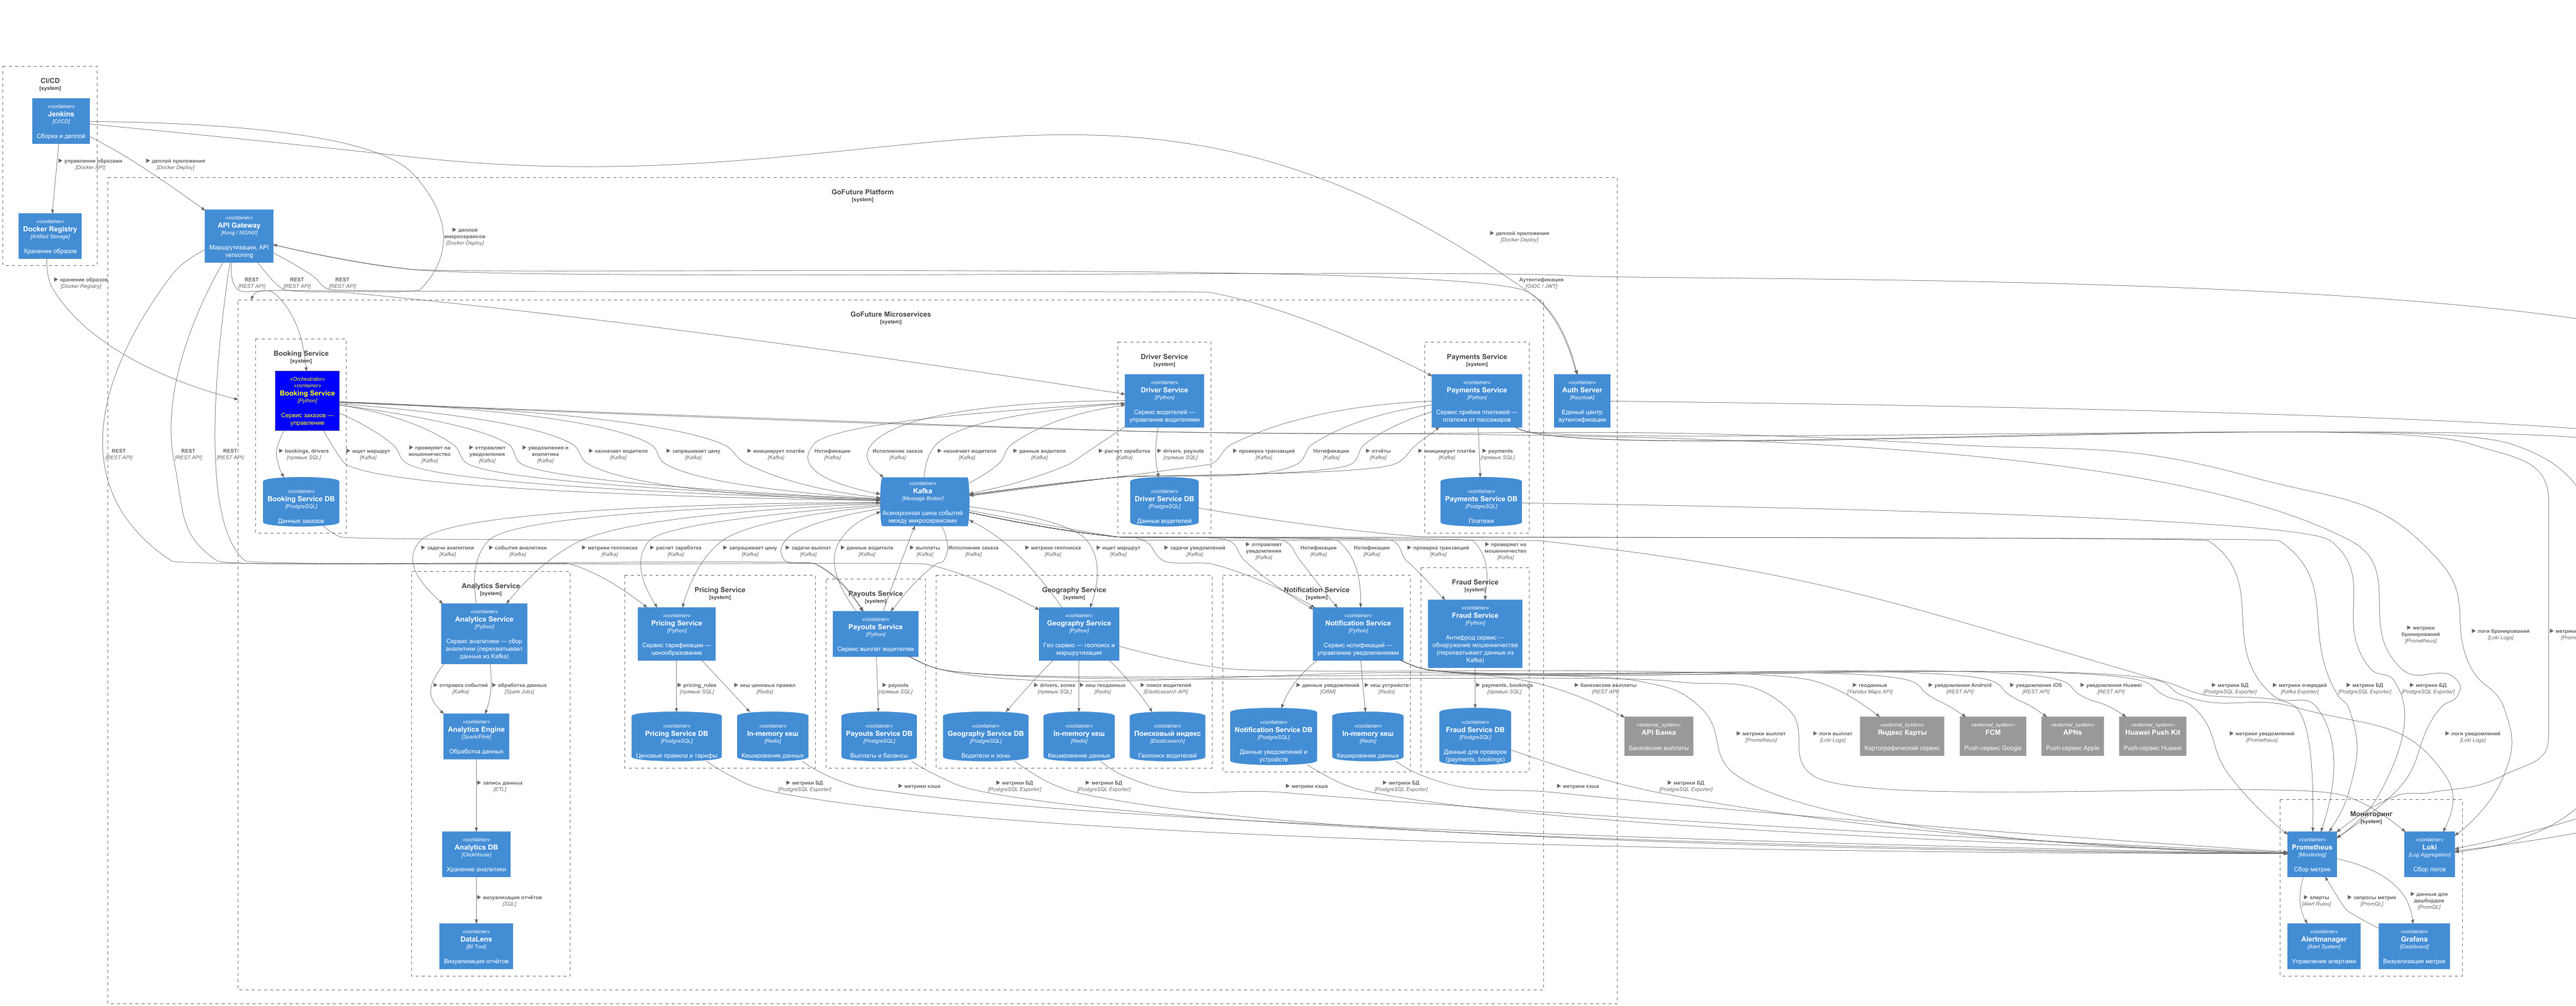
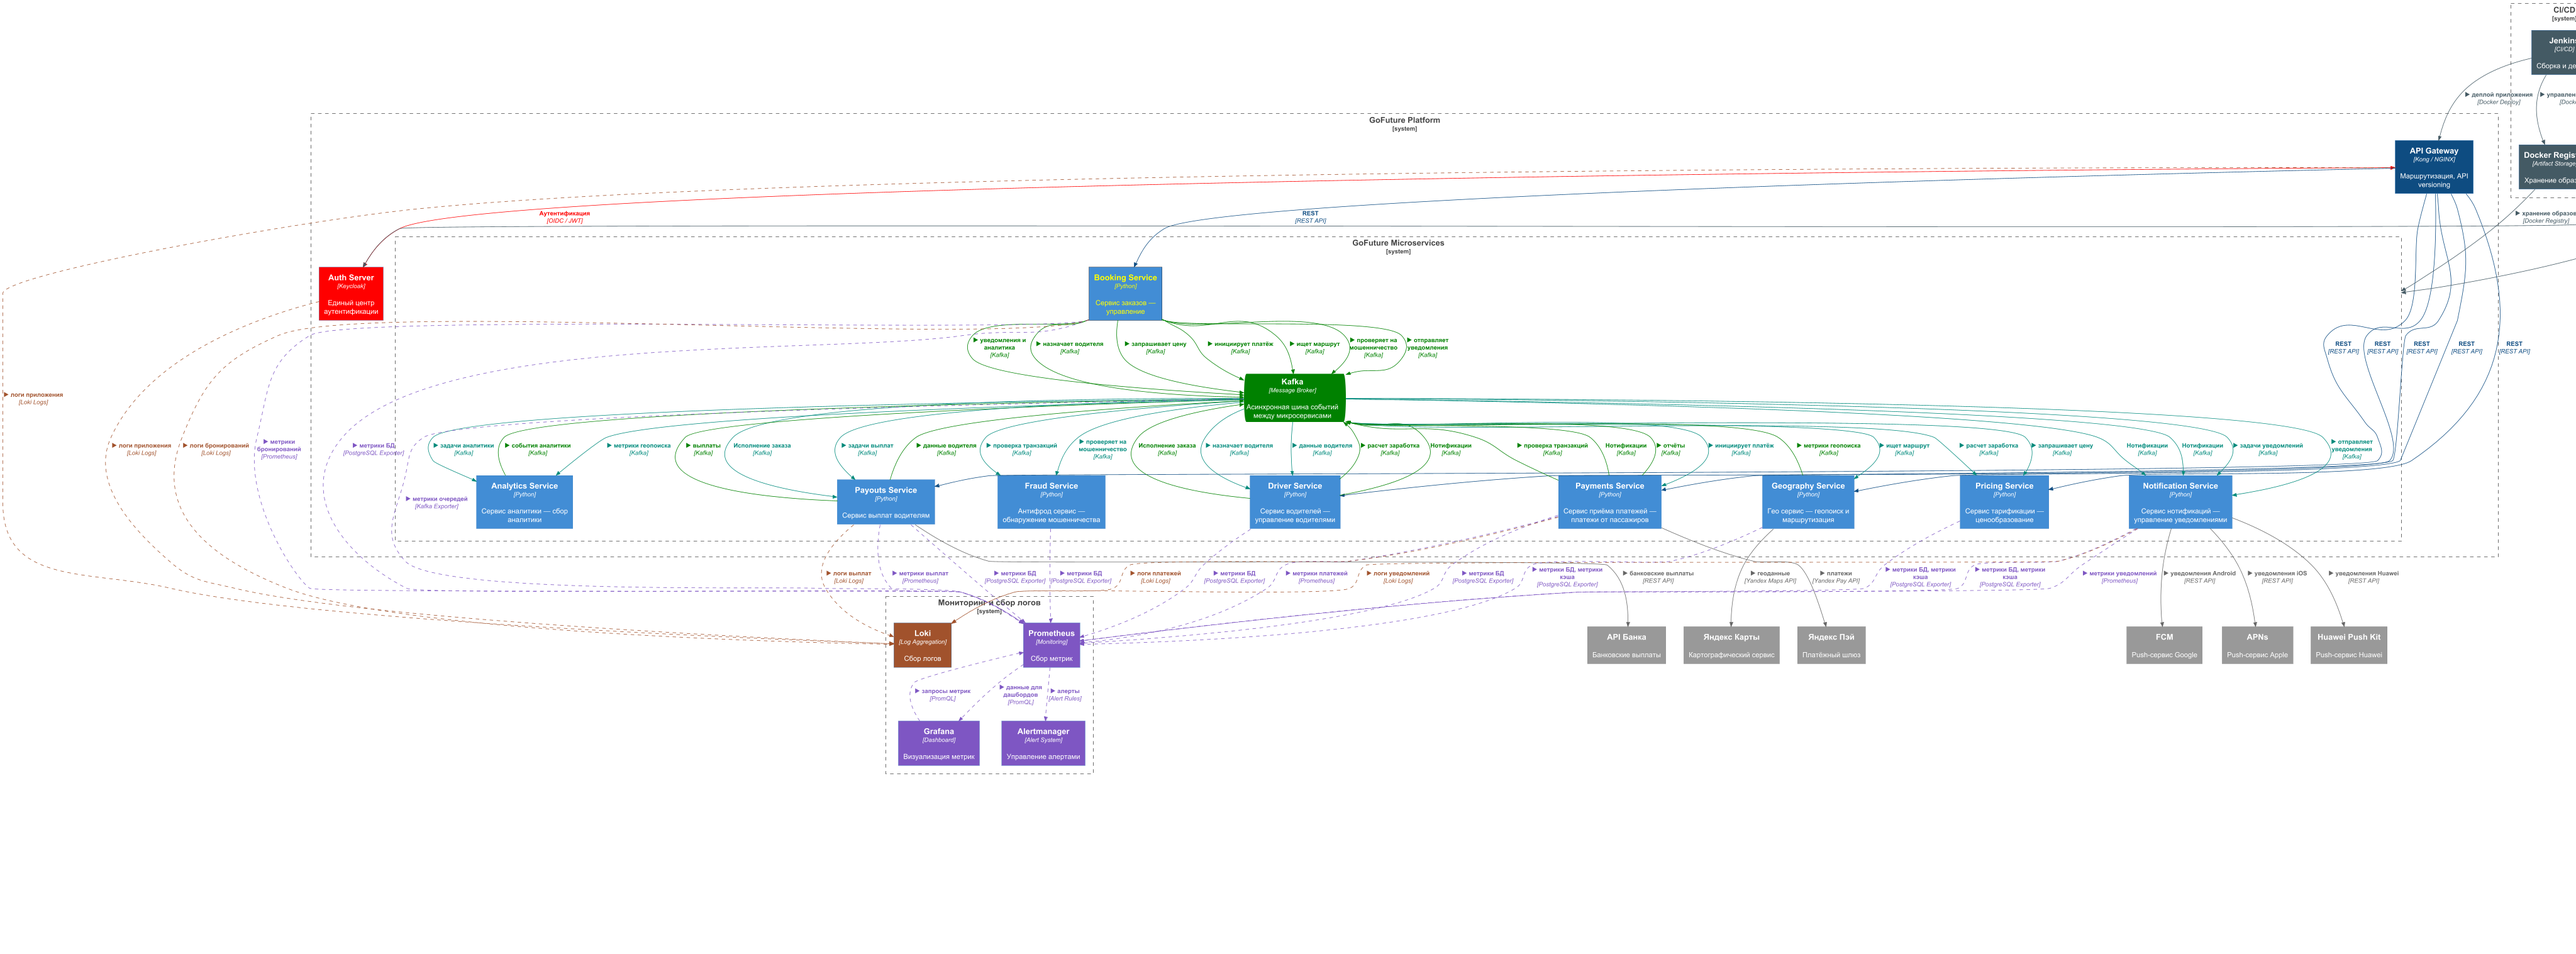
Task1: добавление легенд в диагаммы

diff --git a/Task1/01-ADR.md b/Task1/01-ADR.md
@@ -97,9 +97,14 @@
 7. Провести сравнительный анализ процессов обработанных новой службой и оставшейся в монолите логикой выносимого домена.
 8. Полностью переключить трафик на новую службу и отключить логическую репликацию из монолита.
 
-### На 5-ом шаге процессе выноса доменов в микросервисы система будет должна выглядеть примерно так: ###
+### На 5-ом шаге процессе выноса доменов в микросервисы система будет должна выглядеть примерно так (диаграмма C3): ###
 
 ![](./diagrams/C3-step-05.png)
+
+### Состояние системы после разделения монолита на микросервисы (диаграмма C2): ###
+
+![](./diagrams/C2-to-be.png)
+
 
 ### Последствия ###
 
